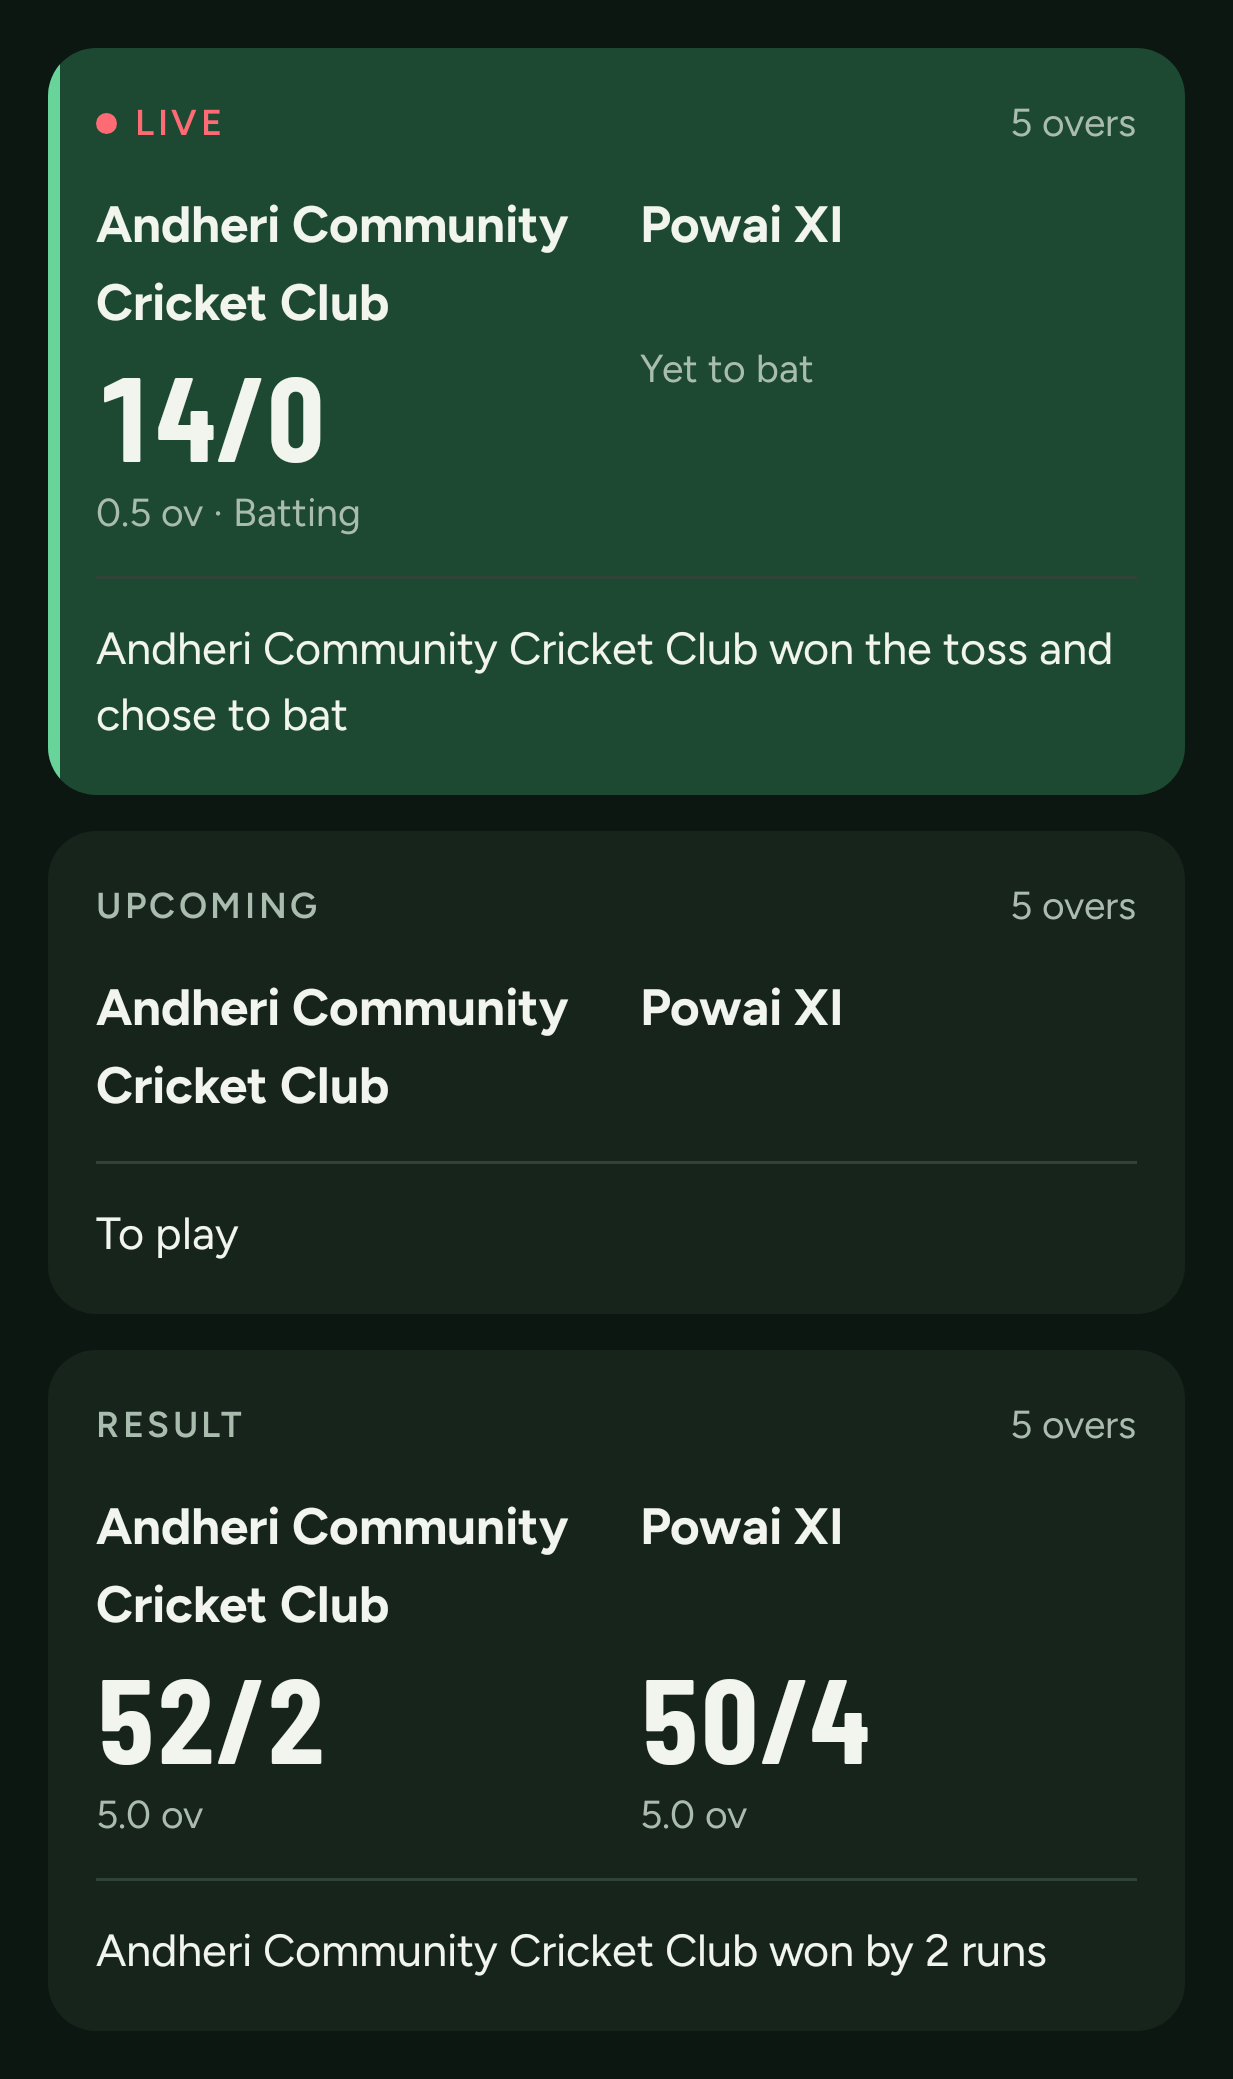
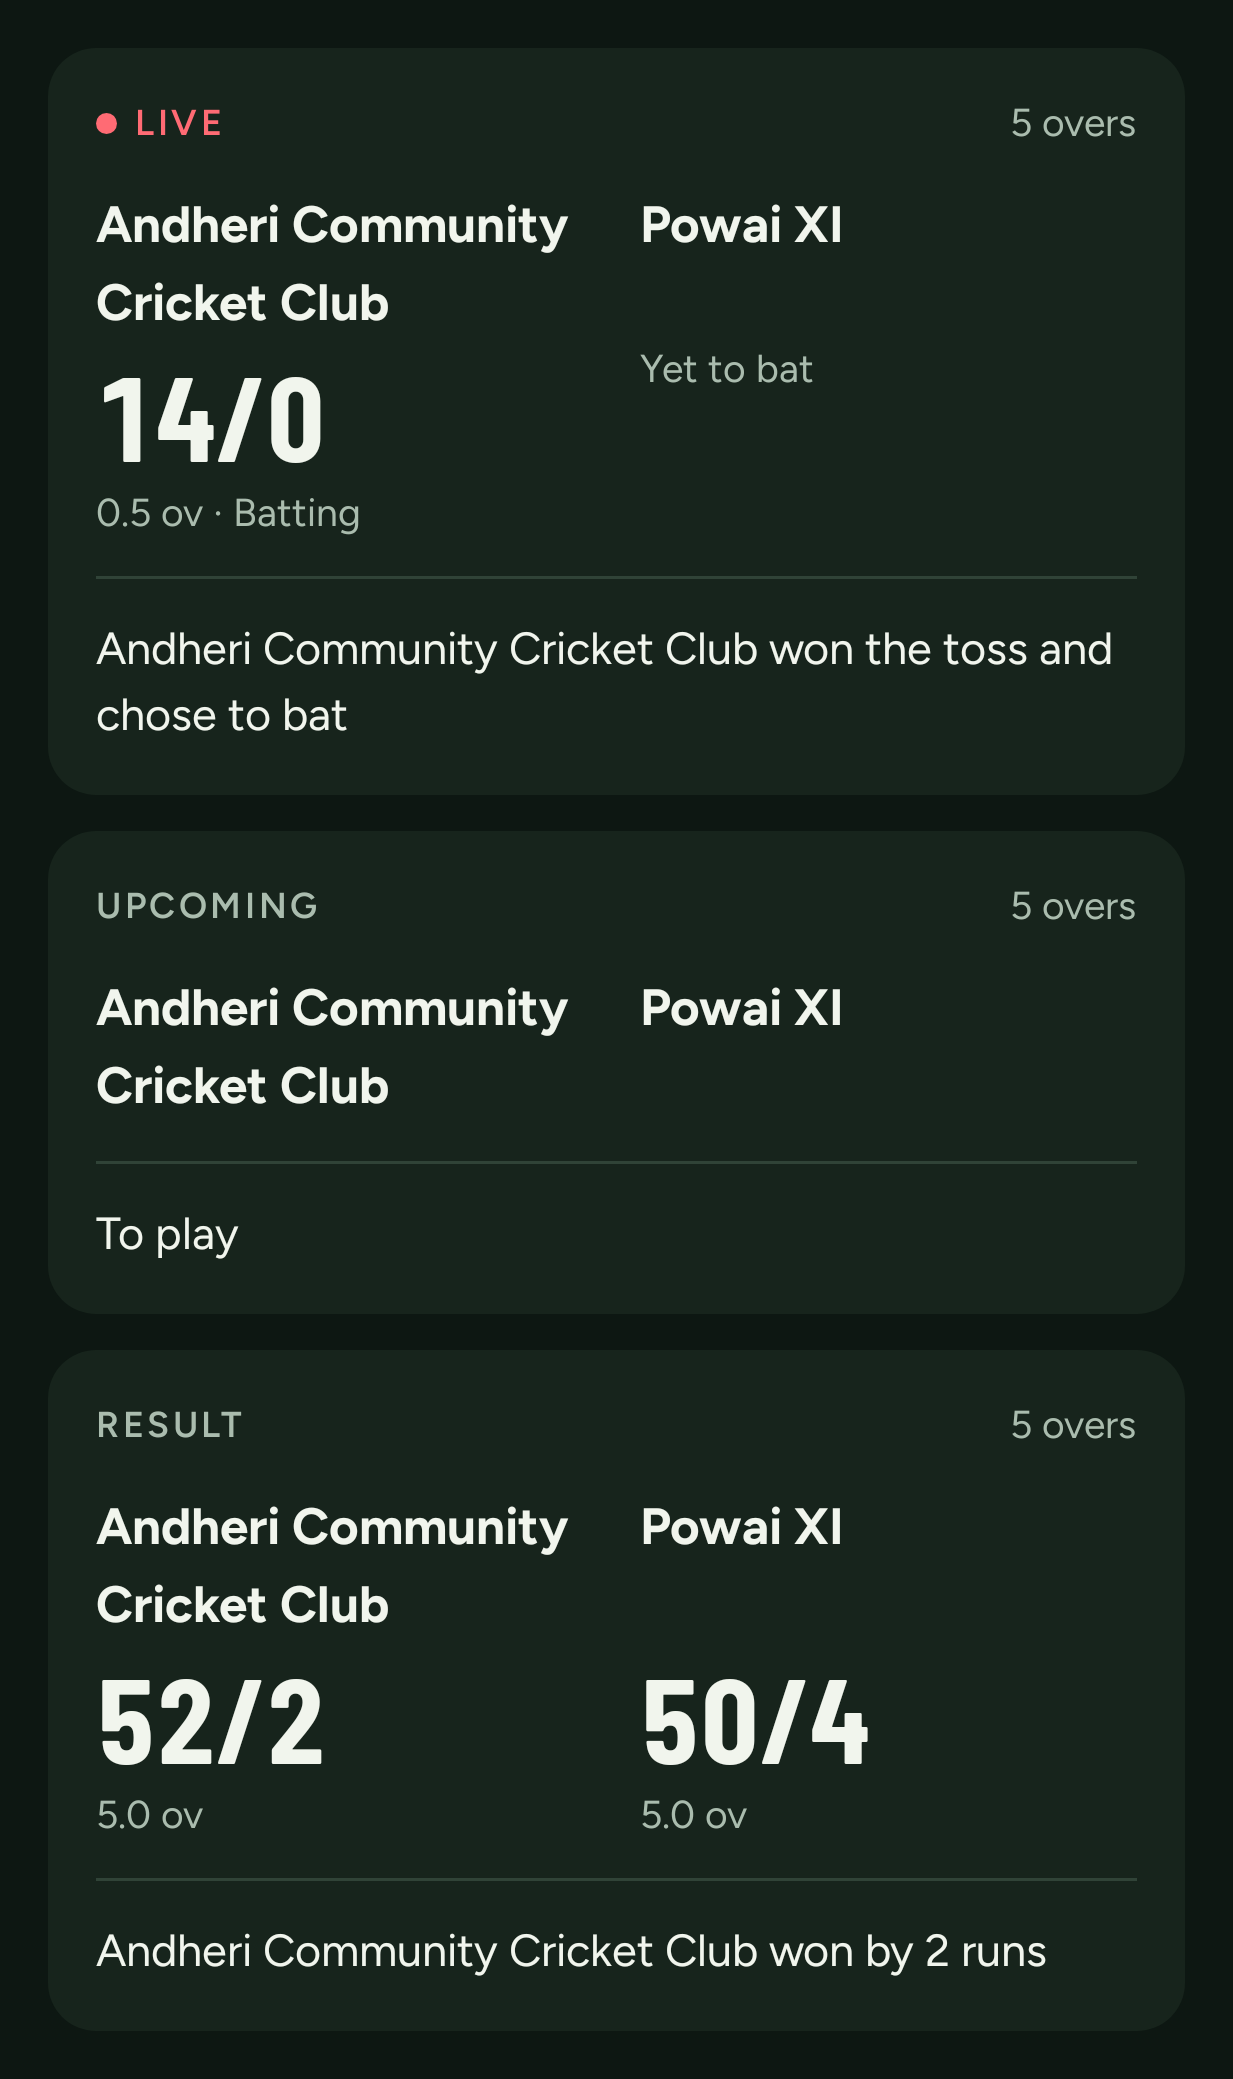
Keep match cards neutral and align scores below team names

diff --git a/app/designsystem/src/commonMain/kotlin/com/harsh/desicrics/designsystem/component/Content.kt b/app/designsystem/src/commonMain/kotlin/com/harsh/desicrics/designsystem/component/Content.kt
@@ -6,8 +6,6 @@ import androidx.compose.foundation.clickable
 import androidx.compose.foundation.layout.Arrangement
 import androidx.compose.foundation.layout.Box
 import androidx.compose.foundation.layout.BoxWithConstraints
-import androidx.compose.ui.draw.drawBehind
-import androidx.compose.ui.geometry.Size
 import androidx.compose.ui.platform.LocalDensity
 import androidx.compose.ui.text.font.FontWeight
 import androidx.compose.foundation.layout.Column
@@ -87,8 +85,7 @@ fun MatchCard(
     val live = teams.any { it.batting }
     Column(
         modifier.fillMaxWidth().clip(DesiTheme.radius.md)
-            .background(if (live) colors.brandSoft else colors.surface)
-            .drawBehind { if (live) drawRect(colors.brand, size = Size(4.dp.toPx(), size.height)) }
+            .background(colors.surface)
             .then(if (onClick != null) Modifier.clickable(onClick = onClick) else Modifier)
             .padding(DesiTheme.space.s4),
         verticalArrangement = Arrangement.spacedBy(DesiTheme.space.s3),
@@ -100,11 +97,21 @@ fun MatchCard(
         BoxWithConstraints(Modifier.fillMaxWidth()) {
             if (maxWidth < 260.dp * LocalDensity.current.fontScale) {
                 Column(verticalArrangement = Arrangement.spacedBy(DesiTheme.space.s3)) {
-                    teams.forEach { TeamScore(it, showPending = live) }
+                    teams.forEach { team ->
+                        Column {
+                            TeamName(team)
+                            TeamScore(team, showPending = live)
+                        }
+                    }
                 }
             } else {
-                Row(horizontalArrangement = Arrangement.spacedBy(DesiTheme.space.s4)) {
-                    teams.forEach { TeamScore(it, showPending = live, modifier = Modifier.weight(1f), nameLines = 2) }
+                Column {
+                    Row(horizontalArrangement = Arrangement.spacedBy(DesiTheme.space.s4)) {
+                        teams.forEach { TeamName(it, Modifier.weight(1f)) }
+                    }
+                    Row(horizontalArrangement = Arrangement.spacedBy(DesiTheme.space.s4)) {
+                        teams.forEach { TeamScore(it, live, Modifier.weight(1f)) }
+                    }
                 }
             }
         }
@@ -116,10 +123,14 @@ fun MatchCard(
 }
 
 @Composable
-private fun TeamScore(team: TeamLine, showPending: Boolean, modifier: Modifier = Modifier, nameLines: Int = 1) {
+private fun TeamName(team: TeamLine, modifier: Modifier = Modifier) {
+    Text(team.name, modifier = modifier, style = DesiTheme.type.bodyLg, fontWeight = FontWeight.Bold, color = DesiTheme.colors.ink)
+}
+
+@Composable
+private fun TeamScore(team: TeamLine, showPending: Boolean, modifier: Modifier = Modifier) {
     val colors = DesiTheme.colors
     Column(modifier) {
-        Text(team.name, style = DesiTheme.type.bodyLg, fontWeight = FontWeight.Bold, color = colors.ink, minLines = nameLines)
         if (team.score != null) {
             Text(team.score, style = DesiTheme.type.scoreLg, color = colors.ink)
             val detail = listOfNotNull(

diff --git a/docs/app-revamp-feedback.md b/docs/app-revamp-feedback.md
@@ -150,7 +150,7 @@ Powai XI need 26 off 16 balls
 ```
 
 - Give each team half the width. Use bold Figtree for **both team names** in the primary text colour. Place each score directly underneath in larger Barlow Condensed numerals, with smaller overs below. Keep the team order steady when the innings changes. Move the Batting marker to the side at the crease.
-- Give live cards a subtle green surface and a stronger green leading edge in both themes. Keep the visible LIVE dot and label so colour is an additional cue. Reserve the solid green fill for the primary Start a match action. Use a neutral surface for upcoming and completed games.
+- Use the same neutral surface for all match cards. The small LIVE dot and label carry the status colour. Keep the strongest fill on Start a match.
 - Write one useful footer for each state. A scheduled card gives the start time, such as “Sunday, 3:30 pm”. During a chase, show the equation. After play, show the result, such as “Andheri Strikers won by 4 runs”. Before a team bats, show “Yet to bat” in its score slot. Avoid showing 0/0 for an innings that has never started.
 - Let long names wrap and align the scores below the taller name. On narrow screens or with large text, stack the team blocks when both names and scores cannot fit comfortably. Tapping anywhere opens that match. TalkBack should read each team together with its score and overs.
 - Review live, scheduled, and final cards **together** on Home, in light and dark mode. A reader should be able to point to the live game, name both teams, and tell who is batting without opening a card. Include two long club names and a team still waiting to bat in the review.
